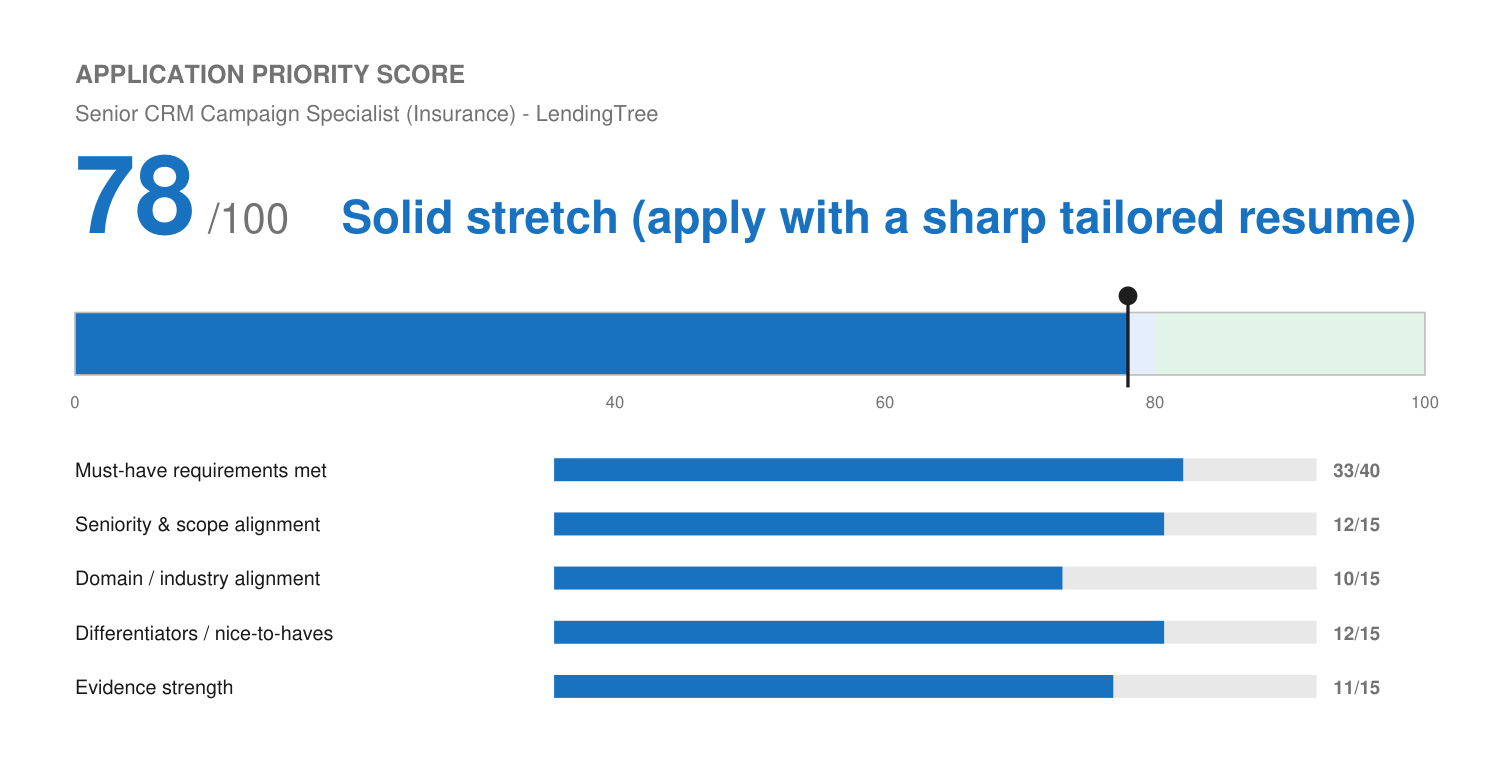
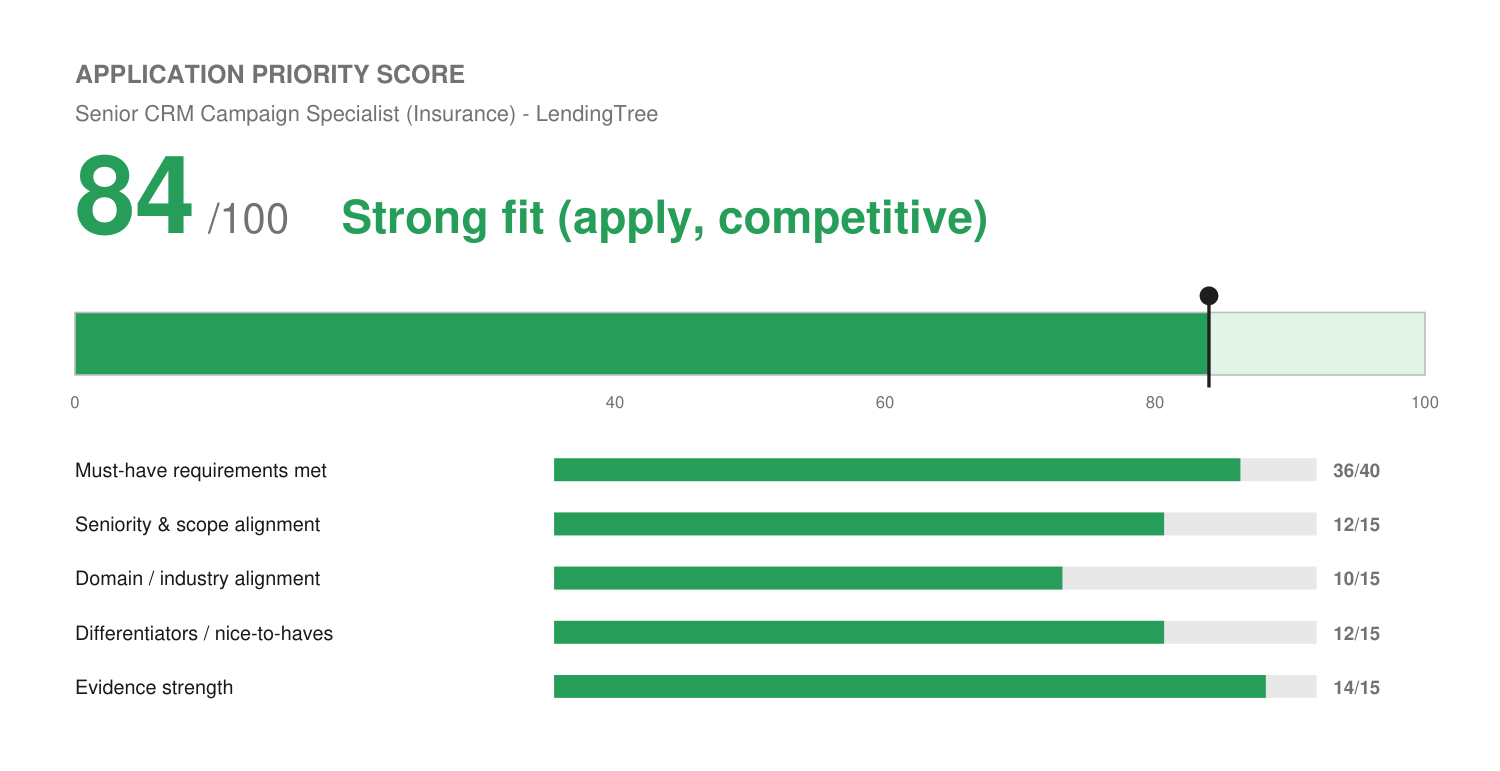
LendingTree Senior CRM Campaign Specialist: score 84 with Solenzo email results (880K+ delivered, ~43% open, 0.01% spam); metrics added to profile; salary $105K
Claude-Session: https://claude.ai/code/session_018DEej5NGjq1omj9BTtvEiy

diff --git a/applications/lendingtree-senior-crm-campaign-specialist/match-report.md b/applications/lendingtree-senior-crm-campaign-specialist/match-report.md
@@ -14,7 +14,7 @@
 | :--- | :--- | :--- |
 | Hybrid Denver, 3 days in office | Met | Arvada, Denver metro (within Josh's location constraint) |
 | No visa sponsorship | Met | U.S. citizen |
-| Compensation | **Needs candidate confirmation** | Above the associate anchor; lower-middle default **$103,000** |
+| Compensation | Application-form | **$105,000** (midpoint; strengthened by email results) |
 
 No knockout. No cap. No video answer.
 
@@ -22,18 +22,18 @@ No knockout. No cap. No video answer.
 
 ## Application Priority Score
 
-⚪ **78 / 100 — Solid stretch (apply with a sharp tailored resume)**
-`[████████████████░░░░]  78%`
+⚪ **84 / 100 — Strong fit (apply, competitive)**
+`[█████████████████░░░]  84%`
 
 *Internal decision aid, not a prediction of LendingTree's screening outcome.* See `fit.png`.
 
 | Dimension | Score | Max |
 | :--- | :---: | :---: |
-| Must-have requirements met | 33 | 40 |
+| Must-have requirements met | 36 | 40 |
 | Seniority & scope alignment | 12 | 15 |
 | Domain / industry alignment | 10 | 15 |
 | Differentiators / nice-to-haves | 12 | 15 |
-| Evidence strength | 11 | 15 |
+| Evidence strength | 14 | 15 |
 
 Lifecycle automation, segmentation, copy, and A/B testing are real strengths. Held back by email deliverability (unconfirmed), no email KPI numbers on file, no enterprise ESP named, and no dedicated B2C email-team experience at scale.
 
@@ -44,7 +44,7 @@ Lifecycle automation, segmentation, copy, and A/B testing are real strengths. He
 | JD Requirement | Coverage | Evidence |
 | :--- | :--- | :--- |
 | 3-5 yrs email / lifecycle marketing, B2C preferred | Adjacent-strong | Solenzo lifecycle (consumer-facing service businesses); Level email sequences |
-| Deliverability, segmentation, personalization, automation | Partial | Segmentation/personalization/automation strong; deliverability unconfirmed |
+| Deliverability, segmentation, personalization, automation | Strong | 0.01% spam complaints, ~1.4% bounce across 880K+ delivered (Oct 12) |
 | Hands-on building and executing campaigns | Strong | GoHighLevel, HubSpot, Mailchimp |
 | A/B testing with performance data | Strong | Level, Wix |
 | Analytics to insights | Strong | GA4, SQL, dashboards |
@@ -53,14 +53,10 @@ Lifecycle automation, segmentation, copy, and A/B testing are real strengths. He
 | Cross-functional collaboration | Strong | |
 
 ## Gaps
-- Email deliverability setup (domains, warm-up, sender reputation) not confirmed.
-- No email KPI results on file (open, click, conversion lifts).
 - Insurance / financial services email experience.
 
 ## Candidate Confirmation Needed
-- Have you handled email deliverability (SPF/DKIM/DMARC, warm-up, list hygiene)?
-- Any email results you can quote (open/click/conversion rates or lift from a test)?
-- Salary number ($103K suggested).
+- Resolved Oct 12: Solenzo GoHighLevel email results supplied (880K+ delivered, ~43% open, ~11% click, 0.01% spam); added to profile, resume, cover letter. Salary $105K.
 
 ## Output Files
 - `LendingTree-SeniorCRMCampaignSpecialist-Resume.pdf` / `.docx` (1 page; Fetch & Funnel omitted for length, order preserved)

diff --git a/profile/master-profile.md b/profile/master-profile.md
@@ -788,6 +788,7 @@ operator talking, not like a candidate performing.
 - **20+ GoHighLevel automation workflows built & deployed (Solenzo)** across the full lifecycle (capture, qualify, book, no-show recovery, onboard, nurture/reactivate, reviews, segmented cold outreach); audit/outreach workflow enrolled 180+ contacts
 - **Free digital-footprint audit offer (Solenzo), promoted via LinkedIn organic growth: 180+ businesses enrolled, 2 converted to paying clients** (~1.1% audit-to-client conversion) — confirmed by Josh, Aug 2026. This is Josh's own product-marketing / PLG-style motion: a free offer as top-of-funnel, distributed through his own LinkedIn growth, converting a share of free users to paid. Track record still early; do not overstate the conversion rate, state it plainly.
 - **~25 concurrent onboardings at peak at Wix** (supplied by Josh, Oct 2026), alongside 25+ launches/month
+- **Solenzo email programs, GoHighLevel (screenshots supplied by Josh, Oct 12 2026; Josh's own business account, run by him), ~18 months (Mar 2025 to Sep 2026):** 883,692 emails delivered, 376,441 opened (**~43% open rate**), ~11% click rate (cumulative), ~1% ordered, 12,800 bounced (~1.4%), 1,552 unsubscribes (~0.2%), **94 spam complaints (~0.01%)**. Mix of email campaigns, workflow campaigns, and bulk-action campaigns. Strong evidence for email deliverability, list hygiene, and lifecycle email execution. Don't cite the order rate without context (what "ordered" counts in this account isn't captured).
 - **Up to 3 concurrent clients at Solenzo** at peak, while personally building the outbound automation system and running outbound himself (confirmed by Josh, Sep 2026). This is a solo-founder scale number, real and specific, not a large book, state it plainly rather than rounding up. Monthly lead volume at Solenzo is not reliably capturable as a metric (see private note below) — do not estimate one.
 
 > If a job calls for a metric not in this list, do NOT manufacture one. Use a
